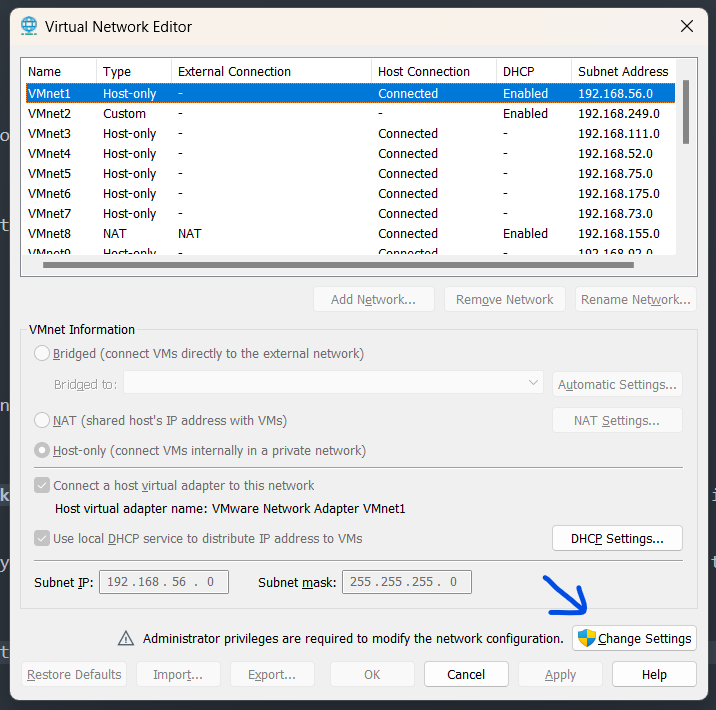
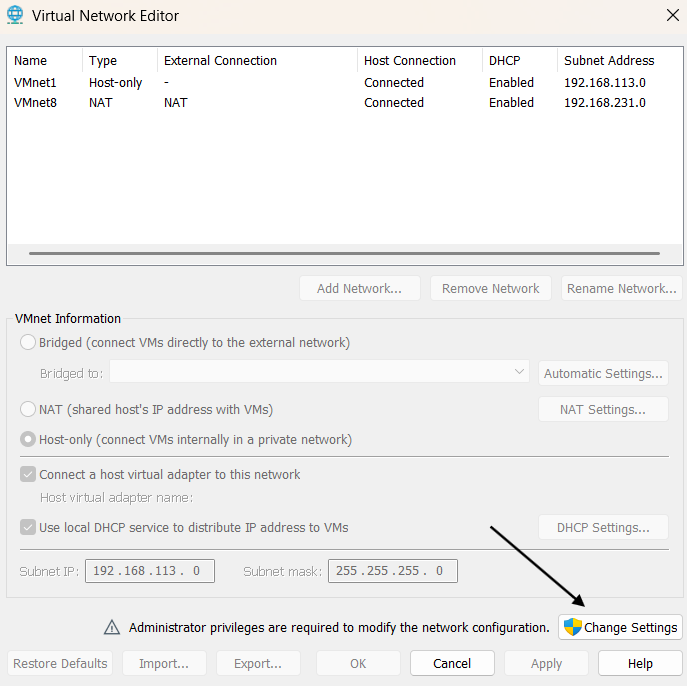
Update README.md

diff --git a/mod2/README.md b/mod2/README.md
@@ -19,13 +19,9 @@ Then we go to `Edit -> Virtual Network Editor...`:
 
 ![](.images/path-virtual-network-editor.png)
 
-and click `Change Settings` to check **VMnet2** and **VMnet3** and add if they exist:
+As you can see I don't have VMnet2 and VMnet3, so let's add them. Click at `Change Settings` to gain permission:
 
 ![](.images/virtual-network-editor-change-settings.png)
-
-We can see there are no VMnet2 and VMnet3:
-
-![](.images/vmnet-listing-before-add.png)
 
 To add new VMnet, just click at `Add Network..`:
 
@@ -40,6 +36,8 @@ Do the same with VMnet3!
 Check again and we see that VMnet2 and VMnet3 have been added successfully:
 
 ![](.images/vmnet-listing-after-add.png)
+
+That's good! Let's setup our team machines!
 
 ### ------ **Team machine**
 
